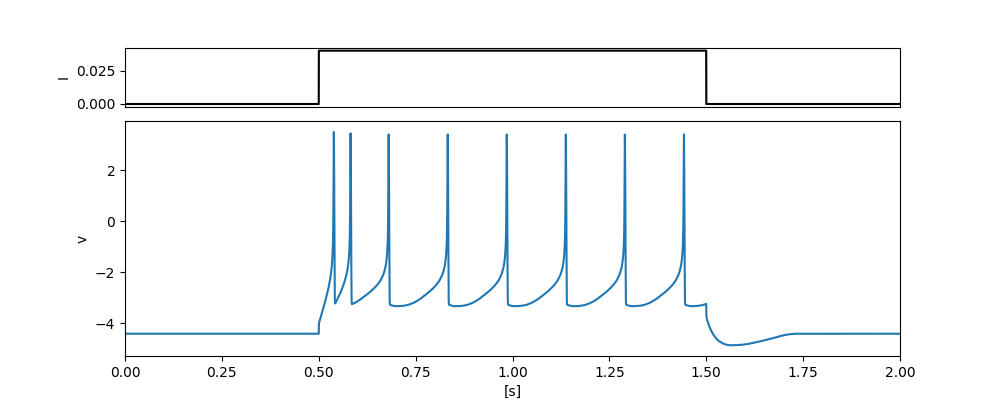
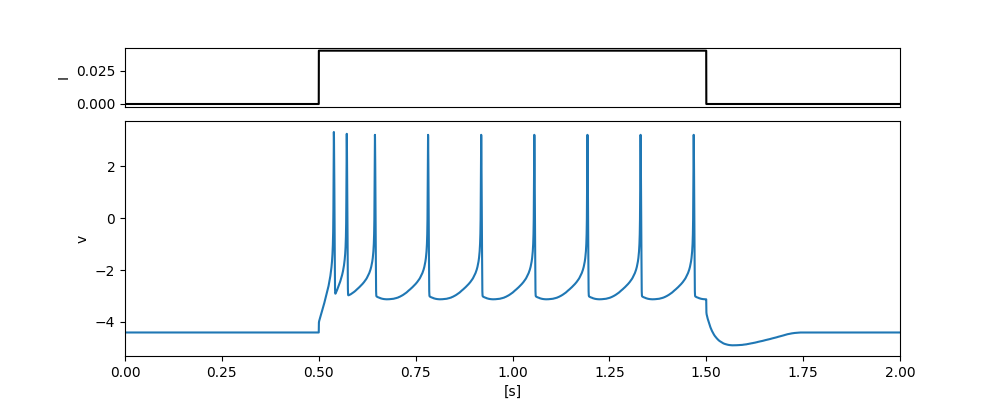
少し修正と確認データの更新

diff --git a/GPU_PQN_test.py b/GPU_PQN_test.py
@@ -72,6 +72,7 @@ def main():
     neuron_mode = "FS"  # TODO: make this configurable (e.g., FS, LTS, ...)
     cell = PQNparam(mode=neuron_mode)
     cell_param_h = param_h_init(cell)
+    dt = cell.PARAM['dt']
 
     Vs_h = np.full(N, cell.state_variable_v, dtype=np.int64)  # membrane potential
     Ns_h = np.full(N, cell.state_variable_n, dtype=np.int64)
@@ -262,7 +263,6 @@ def plot_single_neuron(id, dt, tmax, number_of_iterations, I, v0, num):
     ax1 = fig.add_subplot(spec[1])
     ax0.set_xticks([])
     ax0.plot([i*dt for i in range(0, number_of_iterations)], I[:,id], color="black")
-    ax0.set_xlim(0, tmax)
     ax1.plot([i*dt for i in range(0, number_of_iterations)], v0[:,id])    
     ax1.set_xlim(0, tmax)
     ax1.set_ylabel("v")
